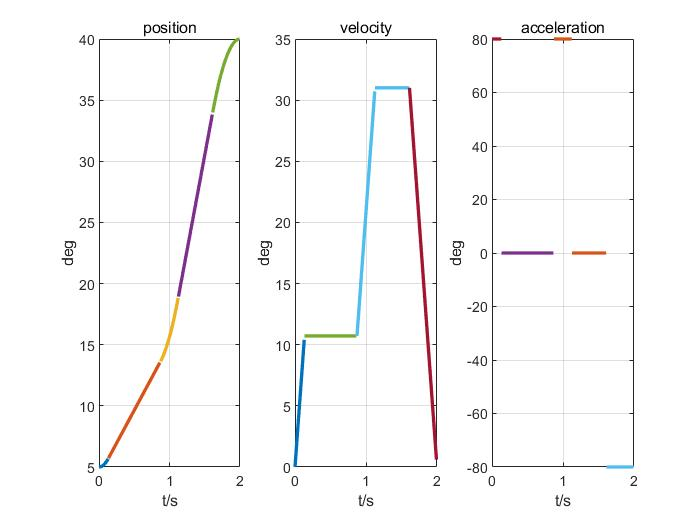
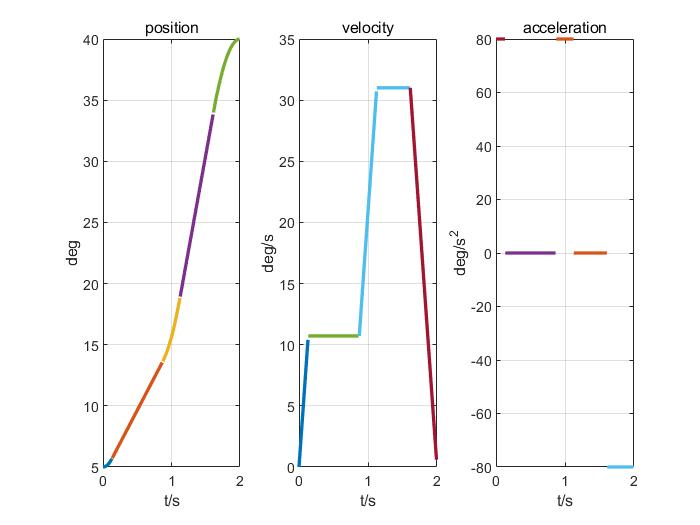
fix bug

diff --git a/Homework8/draw.m b/Homework8/draw.m
@@ -74,7 +74,7 @@ plot(tt5, df5(tt5), 'linewidth', 2);
 grid on;
 title('velocity');
 xlabel('t/s');
-ylabel('deg');
+ylabel('deg/s');
 
 %draw acc
 subplot(133);
@@ -87,7 +87,7 @@ plot(tt5, ddf5(tt5), 'linewidth', 2);
 grid on;
 title('acceleration');
 xlabel('t/s');
-ylabel('deg');
+ylabel('deg/s^2');
 
 
 
@@ -138,7 +138,7 @@ plot(x, polyval(dcubic2, x-td), 'linewidth', 2);
 grid on;
 title('velocity');
 xlabel('t/s');
-ylabel('deg');
+ylabel('deg/s');
 hold off;
 
 subplot(133);
@@ -152,5 +152,5 @@ plot(x, polyval(ddcubic2, x-td), 'linewidth', 2);
 grid on;
 title('acceleration');
 xlabel('t/s');
-ylabel('deg');
+ylabel('deg/s^2');
 hold off;
